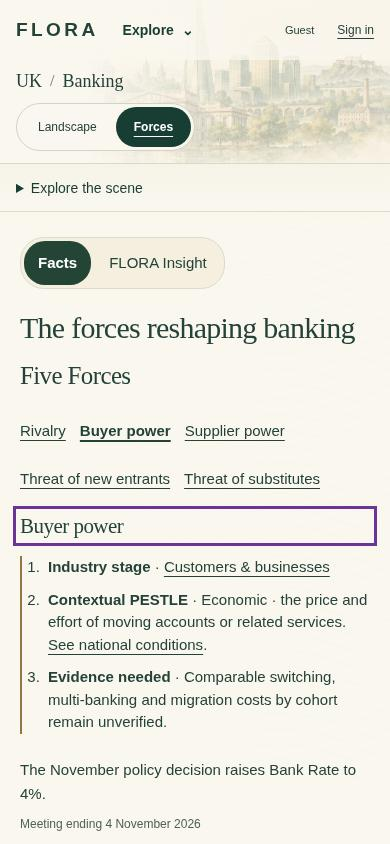
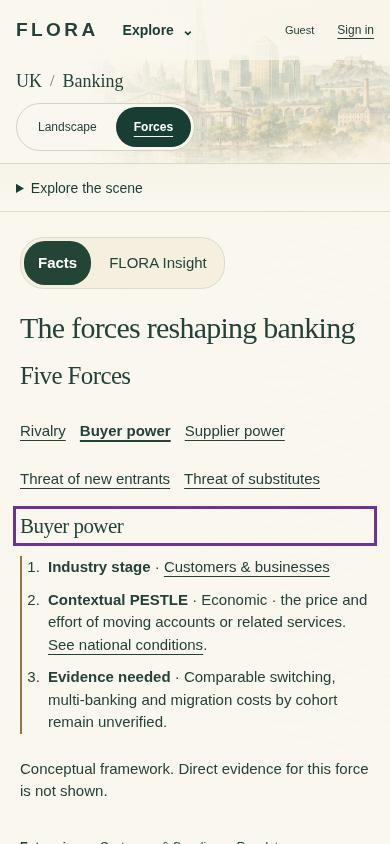
Separate conceptual experience mechanisms from scoped evidence

Changed region(s): [[0.0615, 0.8934, 0.9538, 0.9858]]

diff --git a/cios/applications/flora/experience_composition.py b/cios/applications/flora/experience_composition.py
@@ -2,7 +2,6 @@
 from html import escape
 
 from . import intelligence_presentation as p
-from . import leadership_agenda as agenda
 from . import reading_views as reading
 from . import visual_streams as v
 
@@ -11,21 +10,25 @@ UK_DIMENSIONS = {
     "technological": "Technological", "legal": "Legal", "environmental": "Environmental",
 }
 BANKING_FORCES = {
-    "rivalry": ("Rivalry", "funding-economics", "Funding & lending",
+    "rivalry": ("Rivalry", "Funding & lending",
                 "Competition for deposits can increase funding costs. Banks with different deposit mixes and wholesale funding needs can face different costs.",
                 "Comparable pricing, deposit mix and balance movements are needed to distinguish a pricing response from changes in customer balances."),
-    "buyer-power": ("Buyer power", "funding-economics", "Customers & businesses",
+    "buyer-power": ("Buyer power", "Customers & businesses",
                     "Customer choice can discipline pricing. A household moving one product and a business moving linked payments and borrowing face different switching effort.",
                     "Comparable switching, multi-banking and migration costs by cohort remain unverified."),
-    "supplier-power": ("Supplier power", "provider-oversight", "Technology & infrastructure",
+    "supplier-power": ("Supplier power", "Technology & infrastructure",
                        "Shared technology providers may have more bargaining power when switching requires data migration, redesign and continuity testing.",
                        "Designation establishes neither supplier bargaining power nor a contract or workload at an individual bank."),
-    "new-entrants": ("Threat of new entrants", "reporting-change", "Customers & businesses",
+    "new-entrants": ("Threat of new entrants", "Customers & businesses",
                      "Controls and operating resilience can create fixed costs. An entrant serving one product may face different economics from a multi-product bank.",
                      "Entry costs, authorisation scope and service coverage need comparable evidence."),
-    "substitutes": ("Threat of substitutes", "", "Payments & settlement",
+    "substitutes": ("Threat of substitutes", "Payments & settlement",
                     "A payment specialist can substitute for part of an account journey while relying on other institutions for settlement or funding.",
                     "Usage data and exact scheme and operator roles are needed to establish actual substitution."),
+}
+_PARTIAL_PESTLE = {
+    "political": ("Public procurement policy", "Separate evidence is needed on wider fiscal and institutional priorities."),
+    "social": ("Social commitments in public procurement", "Separate population, workforce or service-outcome evidence is needed for broader social conditions."),
 }
 _BANKING_CONTEXT = {
     "rivalry": "Economic · funding costs and the rate environment.",
@@ -76,6 +79,7 @@ def uk_forces(ctx, data):
     fact = v.force_view(ctx, key, data)
     items = (fact,) if fact and p.eligible(fact) else ()
     mechanism, gap, _ = v.FORCE_POLICY[key]
+    partial = _PARTIAL_PESTLE.get(key)
     close = escape(v.url(ctx, detail="") + "#visual-content", quote=True)
     body = (
         '<h1>The UK’s economic context</h1>'
@@ -86,24 +90,25 @@ def uk_forces(ctx, data):
                  f'<a class="close" href="{close}" aria-label="Close {label} conditions">×</a>')
     body += (
         f'<h2 id="insight-title">{label} conditions</h2><ol class="experience-path"><li><strong>UK condition</strong>'
+        + (f'<p><strong>Partial coverage · {partial[0]}</strong></p>' if partial else '')
         + (_facts(items) or '<p>The national evidence for this dimension is unavailable.</p>')
         + '</li><li><strong>Industry context</strong> · Follow the relevant economic channel in '
           '<a href="/industries/banking?stream=forces">Banking</a> or <a href="/industries/aviation?lens=pestle">Aviation</a>. '
           'These links give sector context.</li><li><strong>Enterprise applicability</strong> · Needs evidence about the exact entity and activity.</li></ol>'
         + (_interpret("Sector mechanism", items, mechanism, gap, ctx) if ctx.reading == "insight" else '')
     )
+    if partial:
+        if items:
+            body += '<p>Political and Social use the same procurement policy. The scope and dates above apply to both.</p>'
+        body += f'<p>{partial[1]}</p>'
     if ctx.detail and items:
         body += '</section>'
     return body + '<p><a href="/industries/banking?stream=forces">Explore these forces in Banking</a></p>'
 
 
-def banking_forces(ctx, data, issues):
+def banking_forces(ctx):
     key = ctx.detail or "rivalry"
-    title, anchor, stage, mechanism, gap = BANKING_FORCES[key]
-    items = next((row.facts[:1] for row in issues if row.key == anchor), ())
-    if key == "substitutes":
-        fact = v.force_view(ctx, "UK-VALUE", data)
-        items = (fact,) if fact and p.eligible(fact) else ()
+    title, stage, mechanism, gap = BANKING_FORCES[key]
     href = escape(v.url(ctx, stream="landscape", detail=_STAGE[stage]) + "#visual-content", quote=True)
     body = (
         '<h2>Five Forces</h2>'
@@ -112,12 +117,13 @@ def banking_forces(ctx, data, issues):
         + f'<li><strong>Contextual PESTLE</strong> · {escape(_BANKING_CONTEXT[key])} '
           '<a href="/?stream=forces">See national conditions</a>.</li>'
         + f'<li><strong>Evidence needed</strong> · {escape(gap)}</li></ol>'
-        + _interpret("Competitive mechanism", items, mechanism, gap, ctx)
+        + (f'<h2>Conceptual competitive mechanism</h2><p>{escape(mechanism)}</p>' if ctx.reading == "insight"
+           else '<p>Conceptual framework. Direct evidence for this force is not shown.</p>')
     )
     return body
 
 
-def _capability_root(ctx, title, outcome, activities, abilities, facts, mechanism, gap):
+def _capability_root(ctx, title, outcome, activities, abilities, facts, mechanism, gap, *, conceptual=False):
     targets = {name: f"ability-{index}" for index, (name, _) in enumerate(abilities)}
     sequence = '<ol class="reading-sequence">' + "".join(
         f'<li><strong>{escape(activity)}</strong>Uses '
@@ -132,22 +138,25 @@ def _capability_root(ctx, title, outcome, activities, abilities, facts, mechanis
         + "".join(f'<div id="{targets[label]}" tabindex="-1"><dt>{escape(label)}</dt><dd>{escape(detail)}</dd></div>'
                   for label, detail in abilities)
         + '</dl><h2>Roles, enablers and measures</h2>'
-        + _interpret("Operating mechanism", facts, mechanism, gap, ctx)
-        + (f'<p>{escape(gap)}</p>' if facts and ctx.reading == "facts" else '')
+        + (f'<h2>Conceptual operating mechanism</h2><p>{escape(mechanism)}</p>'
+           if conceptual and ctx.reading == "insight" else
+           '' if conceptual else _interpret("Operating mechanism", facts, mechanism, gap, ctx))
+        + (f'<p>{escape(gap)}</p>' if conceptual or (facts and ctx.reading == "facts") else '')
     )
 
 
-def lloyds_inside(ctx, data):
-    controls = agenda._claims(data, ("LBG-ENVOY-CONTROLS",))
+def lloyds_inside(ctx):
     return _capability_root(
         ctx, "How Lloyds operates", "Resolve a customer request",
         (("Receive", ("Service handling",)), ("Resolve", ("Service handling", "Technology governance")),
          ("Review", ("Technology governance",))),
         (("Service handling", "Customer operations · receive and resolve"),
          ("Technology governance", "Technology & data · resolve and review")),
-        controls, "Controls embedded in operating tools can make monitoring repeatable. The Group’s existing platform disclosure gives a scoped example.",
-        "Accountable teams, capability performance and supplier contracts remain unverified for this example.",
-    ) + f'<p><a href="{escape(v.url(ctx, detail="technology") + "#visual-content", quote=True)}">Explore Technology &amp; data</a></p>'
+        (), "An explicit review step can help teams check how requests were resolved. Whether it improves outcomes depends on what is reviewed and how often.",
+        "The actual Lloyds workflow, accountable teams and performance remain unverified.",
+        conceptual=True,
+    ) + (f'<p>Separate Group technology example · <a href="{escape(v.url(ctx, detail="technology") + "#visual-content", quote=True)}">'
+         'Explore Technology &amp; data</a>. This example does not establish a link to the customer-service workflow.</p>')
 
 
 def enterprise_forces(ctx, title, observed, response, mechanism, gap, *, dependencies=None):

diff --git a/tests/test_flora_experience_684.py b/tests/test_flora_experience_684.py
@@ -15,7 +15,11 @@ def test_enterprise_roots_observe_three_different_questions(path):
         insight = main(v.render(path, {**query, "reading": ["insight"]}))
         assert 'aria-current=page>Facts' in facts
         assert 'data-semantic-type="insight"' not in facts
-        assert 'data-semantic-type="insight"' in insight
+        if path == "/enterprises/lloyds" and stream == "inside":
+            assert "Conceptual operating mechanism" in insight
+            assert 'data-semantic-type="insight"' not in insight
+        else:
+            assert 'data-semantic-type="insight"' in insight
         assert "What's changing?" not in facts
         roots[stream] = facts
     assert "Durable capabilities" in roots["inside"]
@@ -52,3 +56,67 @@ def test_airline_root_withdrawal_keeps_conceptual_map(monkeypatch):
         assert "356 aircraft" not in html
         assert "Durable capabilities" in html
         assert 'data-semantic-type="insight"' not in html
+
+
+@pytest.mark.parametrize("key", experience.BANKING_FORCES)
+def test_competitive_comparisons_have_no_proxy_provenance(key):
+    path = "/industries/banking"
+    query = {"stream": ["forces"], "detail": [key]}
+    facts = main(v.render(path, query))
+    insight = main(v.render(path, {**query, "reading": ["insight"]}))
+    assert "Conceptual competitive mechanism" in insight
+    assert "Conceptual competitive mechanism" not in facts
+    for html in (facts, insight):
+        assert 'data-semantic-type="insight"' not in html
+        assert "4 November 2026" not in html
+        assert "Google Cloud EMEA Limited" not in html
+
+
+@pytest.mark.parametrize("mode", ["facts", "insight"])
+def test_lloyds_envoy_withdrawal_leaves_independent_conceptual_workflow(monkeypatch, mode):
+    path = "/enterprises/lloyds"
+    root = {"stream": ["inside"], "reading": [mode]}
+    dedicated = {**root, "detail": ["technology"]}
+    data = v.current_data(v.resolve(path, dedicated))
+    before = main(v.render(path, root))
+    assert "Envoy" not in before and "Separate Group technology example" in before
+    assert "Envoy" in main(v.render(path, dedicated))
+    next(item for item in data["claims"] if item["id"] == "LBG-ENVOY-CONTROLS")["withdrawn"] = True
+    monkeypatch.setattr(v, "current_data", lambda ctx: data)
+    assert "Durable capabilities" in main(v.render(path, root))
+    assert "Envoy" not in main(v.render(path, root))
+    assert "built-in Envoy controls" not in main(v.render(path, dedicated))
+    assert "monitoring part of the operating process" not in main(v.render(path, dedicated))
+
+
+@pytest.mark.parametrize("dimension,topic", [
+    ("political", "Public procurement policy"),
+    ("social", "Social commitments in public procurement"),
+])
+def test_two_partial_dimensions_disclose_common_policy_and_scope(dimension, topic):
+    for mode in ("facts", "insight"):
+        html = main(v.render("/", {"stream": ["forces"], "detail": [dimension], "reading": [mode]}))
+        assert f"Partial coverage · {topic}" in html
+        assert "same procurement policy" in html
+        assert "central-government" in html and "2027-01-01" in html
+
+
+def test_withdrawn_procurement_policy_suppresses_both_dimensions(monkeypatch):
+    from copy import deepcopy
+
+    original = v.visual_v2.insight
+
+    def withdrawn(key):
+        item = deepcopy(original(key))
+        if key in {"political", "social"}:
+            item["sources"][0]["withdrawn"] = True
+        return item
+
+    monkeypatch.setattr(v.visual_v2, "insight", withdrawn)
+    for key in ("political", "social"):
+        html = main(v.render("/", {"stream": ["forces"], "detail": [key], "reading": ["insight"]}))
+        assert "Partial coverage" in html
+        assert "2027-01-01" not in html
+        assert 'data-semantic-type="insight"' not in html
+    economic = main(v.render("/", {"stream": ["forces"], "detail": ["economic"]}))
+    assert "0.7%" in economic

diff --git a/cios/applications/flora/visual_panels.py b/cios/applications/flora/visual_panels.py
@@ -434,7 +434,7 @@ def render(ctx,headers=None,*,financial_run_id=''):
             body=ecosystem.render(ctx,data,issues)
         elif ctx.scope=='lloyds' and not (ctx.detail or ctx.agenda):
             if ctx.stream=='inside':
-                body=experience.lloyds_inside(ctx,data)
+                body=experience.lloyds_inside(ctx)
             else:
                 group="Lloyds Banking Group plc, consolidated Group unless stated"
                 economics=tuple(f for f in _facts(data,['LBG-Q326-DEPOSITS','LBG-Q326-PROFIT'])
@@ -460,9 +460,10 @@ def render(ctx,headers=None,*,financial_run_id=''):
                 not ctx.detail or ctx.detail in experience.BANKING_FORCES):
             body=(_editorial_banking(ctx,data,issues,headers) if ctx.reading=='facts' and not ctx.detail
                   else '<h1>The forces reshaping banking</h1>')
-            body+=experience.banking_forces(ctx,data,issues)
+            body+=experience.banking_forces(ctx)
             if ctx.reading=='insight' and not ctx.detail:
-                body+=ecosystem.forces(ctx,data,issues)
+                context=ecosystem.forces(ctx,data,issues)
+                if context:body+='<section aria-label="Separate funding and oversight context"><h2>Funding and oversight context</h2>'+context+'</section>'
         elif ctx.reading=='insight':body=reading.insight(ctx,data,issues)
         elif ctx.scope=='banking' and ctx.detail=='payments' and ctx.stream=='landscape':
             body=reading.payments(ctx,data)

diff --git a/tools/research/experience_684_browser.py b/tools/research/experience_684_browser.py
@@ -19,6 +19,7 @@ class Quiet(FloraWebHandler):
 
 SCENES = (
     ("uk-forces", "/?stream=forces&detail=political", "Political conditions"),
+    ("uk-social", "/?stream=forces&detail=social", "Social conditions"),
     ("banking-forces", "/industries/banking?stream=forces&detail=buyer-power", "Buyer power"),
     ("lloyds-landscape", "/enterprises/lloyds", "Customer funding and earnings"),
     ("lloyds-inside", "/enterprises/lloyds?stream=inside", "How Lloyds operates"),

diff --git a/tools/research/ux_unify_compatibility.py b/tools/research/ux_unify_compatibility.py
@@ -28,7 +28,7 @@ BANKING={
 
 EXPERIENCE_BASE = "c56bd74f130c4d855baf522ba8ba99fe87317fb1"
 EXPERIENCE = {
[3 lines of base64/hex data omitted]
 }
 

diff --git a/docs/flora-runtime/experience-684/README.md b/docs/flora-runtime/experience-684/README.md
@@ -25,9 +25,9 @@ Two enterprise archetypes use the same presentation functions for distinct root 
 | View | Inputs and owner | Reading bounds and withdrawal |
 | --- | --- | --- |
 | UK Forces | `visual_v2.insight` via `visual_streams.force_view` and `intelligence_presentation`. ONS real GDP to Sep 2026; existing GB macro records GM-SOCIAL, aggregate cyber, cyber bill and UK sustainability reporting. | Publication, applicability and assessed status retain their meaning. Political and Social discuss different implications of the same tender policy. Sector links give context only; no enterprise applicability. Source-restricted items suppress derived mechanisms. |
-| Banking Forces | Existing agenda projections for funding economics, reporting change, HMT provider oversight, and the existing `UK-VALUE` model for substitutes. | All five models explain conditional mechanisms. No measured market shares, switching statistics, Pay.UK economics or verified Lloyds Bank plc supplier workload. An invalid input removes its interpretation. |
+| Banking Forces | No measured premise is attached to the five Porter interpretations. Existing agenda and legacy routes retain their original scope. | All five models explain conditional mechanisms. No measured market shares, switching statistics, Pay.UK economics or verified Lloyds Bank plc supplier workload. Context can explain rates, regulation or oversight on its own terms without validating these comparisons. |
 | Lloyds Landscape/Forces | Existing Group financial projection and pinned release where applicable. `LBG-Q326-DEPOSITS` is a 30 Sep 2026 stock; `LBG-Q326-PROFIT` is a nine-month statutory pretax flow; `LBG-A2030-CIR` is a 2030 Group management ambition. | The Landscape interpretation depends on eligible customer deposits. Forces interpretation depends on the eligible target. No implied linkage of the target to sized savings or supplier budget. |
-| Lloyds Inside | Existing `leadership_agenda._claims` for `LBG-ENVOY-CONTROLS`. | Group platform controls anchor the mechanism. The service stream and capability links are explicit conceptual structures; keep them if the disclosure is removed. |
+| Lloyds Inside | Existing `leadership_agenda._claims` for `LBG-ENVOY-CONTROLS`. | Group platform controls appear only in the separate Technology & data selection. The service stream and capability links are conceptual and independent of that disclosure. |
 | easyJet roots | Existing `easyjet_capabilities.fact` for `AV-FLEET` and `AV-NETWORK`, at their respective Group snapshot/network reporting scopes. Detailed capability owner unchanged. | Landscape comparison needs both inputs. Inside and Forces interpret the fleet availability mechanism as conditional; no reported disruption, accountable role or contract implied. Conceptual stream survives withdrawal. |
 | Nationwide | Existing Financial projection on `RUD1-NATIONWIDE-FY26`; Society complaints remain separate. | Both signed Group FY2026 reconciliations and included integration cost remain unchanged. |
 
@@ -35,7 +35,7 @@ Reviewed [research-only #683 at its commissioned head](https://github.com/rdidal
 
 ## Browser review and rollback
 
-[Actual application previews](previews/) cover eight scenes in both modes across desktop, iPad landscape/portrait and mobile 390/320. Run `python -m tools.research.experience_684_browser /tmp/flora-684-previews` against an isolated development workspace with Chromium and Playwright installed. Earlier layouts at the same runtime baseline are in the [observed design archive](../../product/flora-experience/experience-align-all/previews/observed/).
+[Actual application previews](previews/) cover nine scenes in both modes across desktop, iPad landscape/portrait and mobile 390/320. Run `python -m tools.research.experience_684_browser /tmp/flora-684-previews` against an isolated development workspace with Chromium and Playwright installed. Earlier layouts at the same runtime baseline are in the [observed design archive](../../product/flora-experience/experience-align-all/previews/observed/).
 
 The review checks native navigation, accessible landmarks and headings, visible focus, touch, history/reload, 320px without JavaScript, 200% CSS zoom, viewport fit and existing specialist examples. Chromium device sizes are simulations. Safari and physical iPad validation remain for owner review. Browser loopback timings are smoke observations and do not establish production latency.
 
@@ -48,6 +48,7 @@ Rollback is a revert of this bounded integration commit. No schema, permissions,
 | Perspective | Desktop | iPad | Mobile |
 | --- | --- | --- | --- |
 | UK Forces | [Facts](previews/uk-forces-facts-desktop.jpg) | [Insight, landscape](previews/uk-forces-insight-ipad-landscape.jpg) | [Facts](previews/uk-forces-facts-mobile.jpg) |
+| UK Social | [Facts](previews/uk-social-facts-desktop.jpg) | [Insight, portrait](previews/uk-social-insight-ipad-portrait.jpg) | [Facts, JS off](previews/uk-social-facts-mobile-320.jpg) |
 | Banking Forces | [Insight](previews/banking-forces-insight-desktop.jpg) | [Facts, portrait](previews/banking-forces-facts-ipad-portrait.jpg) | [Insight, JS off](previews/banking-forces-insight-mobile-320.jpg) |
 | Lloyds Landscape | [Facts](previews/lloyds-landscape-facts-desktop.jpg) | [Insight, portrait](previews/lloyds-landscape-insight-ipad-portrait.jpg) | [Facts](previews/lloyds-landscape-facts-mobile.jpg) |
 | Lloyds Inside | [Facts](previews/lloyds-inside-facts-desktop.jpg) | [Insight, landscape](previews/lloyds-inside-insight-ipad-landscape.jpg) | [Facts, JS off](previews/lloyds-inside-facts-mobile-320.jpg) |
@@ -55,3 +56,16 @@ Rollback is a revert of this bounded integration commit. No schema, permissions,
 | easyJet Landscape | [Facts](previews/easyjet-landscape-facts-desktop.jpg) | [Insight, landscape](previews/easyjet-landscape-insight-ipad-landscape.jpg) | [Facts](previews/easyjet-landscape-facts-mobile.jpg) |
 | easyJet Inside | [Insight](previews/easyjet-inside-insight-desktop.jpg) | [Facts, landscape](previews/easyjet-inside-facts-ipad-landscape.jpg) | [Facts, 200% zoom](previews/easyjet-inside-200pct.jpg) |
 | easyJet Forces | [Facts](previews/easyjet-forces-facts-desktop.jpg) | [Insight, portrait](previews/easyjet-forces-insight-ipad-portrait.jpg) | [Insight, JS off](previews/easyjet-forces-insight-mobile-320.jpg) |
+
+## Source critique after owner review
+
+| Comparison | Evidence boundary and unresolved demand |
+| --- | --- |
+| Rivalry | A policy rate gives funding context. Comparable deposit prices, mix and balance movements would support an actual rivalry comparison. |
+| Buyer power | Bank Rate provides no switching or bargaining measurement. The household/business contrast is conceptual. Comparable product and cohort switching, multi-banking and migration costs remain open. |
+| Supplier power | Critical-third-party designation establishes regulatory status. Actual bargaining requires comparable alternatives, substitutability and contractual evidence. |
+| New entrants | Reporting rules describe regulated obligations. Entry costs, authorisation and service-packaging evidence are needed to establish an entry barrier. |
+| Substitutes | The value-system model identifies banking functions. Scheme roles and observed usage across products are needed to establish substitution. |
+| UK Political and Social | The shared policy concerns qualifying UK central-government tenders. Political covers procurement design; Social covers delivery commitments. Each openly identifies its distinct coverage gap. Other dimensions retain scoped GDP, aggregate cyber, proposed cyber legislation and listed-issuer sustainability inputs respectively. None establishes a company-specific exposure. |
+
+See the [Banking portfolio handoff](banking-portfolio-handoff.md).

diff --git a/docs/flora-runtime/experience-684/banking-portfolio-handoff.md b/docs/flora-runtime/experience-684/banking-portfolio-handoff.md
@@ -1,0 +1,13 @@
+# Banking portfolio handoff
+
+[#688 BNK-PORTFOLIO-COMPLETE-1](https://github.com/rdidale-jpg/CIOS/issues/688) owns the later depth and rollout decisions. Its five finite bank references, seven historical narratives, six financial dossiers, 76 actor occurrences and 31 candidate edges overlap. These counts describe inputs with different owners and statuses.
+
+| Population | Existing public interface and identity boundary | Priority evidence and owner work |
+| --- | --- | --- |
+| Major banking groups and regulated banks | `/enterprises/lloyds`, historical `/enterprises/{barclays,hsbc-uk,natwest,santander-uk}`, legacy `/flora/banking/explorer` and scoped `/industries/banking?selected=...`. Keep Lloyds Group/Lloyds Bank plc, Barclays Group/Barclays Bank UK PLC, HSBC Group/HSBC UK Bank Plc, NatWest Group/National Westminster Bank PLC and Santander parent/UK perimeters distinct. | Exact issuer and legal scopes, business-line economics, customer denominators, accountable roles and dated programmes. |
+| Mutuals, challengers and supporting cohort | Nationwide Group FY2026 projection and Society service facts under the Banking selection. Starling and TSB have scoped legal-bank evidence. Monzo and other materially relevant challengers or mutuals require portfolio verification; no additional route is commissioned here. | Verify issuer scope, mutual versus bank economics, comparable outcomes and existing owner rights. Preserve Banking manifest Nationwide/Virgin Money and runtime portfolio NatWest as separate uses of `BK-ENT-003`. |
+| Payments and infrastructure | Banking Payments stage models initiation, clearing and settlement. Pay.UK Limited, Faster Payments, Bacs, ICS and CASS have distinct operator, scheme or service identities. Distinguish participant, guarantor and settlement roles. | Pay.UK FY2025 accounts, tariffs and participation remain withheld pending document use and exact identity checks. Provider income is distinct from customer principal. |
+| Technology and other service providers | Banking Technology stage, Lloyds Group technology detail and separate Technology provider references. Google Cloud brand and Google Cloud EMEA Limited designation give different predicates. | Exact bilateral legal identities, contracts, services, dates, workloads and operational dependencies. A Group announcement and national designation establish no Lloyds Bank plc contract or workload. |
+| Institutions | Existing Banking oversight and Forces topics for Bank of England, FCA and PRA. | Verify remit, jurisdiction, date and applicability. Model scope and activity without a corporate profit analogy. |
+
+Reconcile [#665](https://github.com/rdidale-jpg/CIOS/pull/665), [#666](https://github.com/rdidale-jpg/CIOS/pull/666) and [#683](https://github.com/rdidale-jpg/CIOS/pull/683) with the existing Banking portfolio, Source/Research, Financial and Enterprise Model owners. Confirm actual import receipts separately. After #686 acceptance, use one shared presentation owner across `visual_streams`, `visual_panels`, `reading_views` and `banking_ecosystem`; stage each cohort independently. This handoff introduces no route or public admission.
